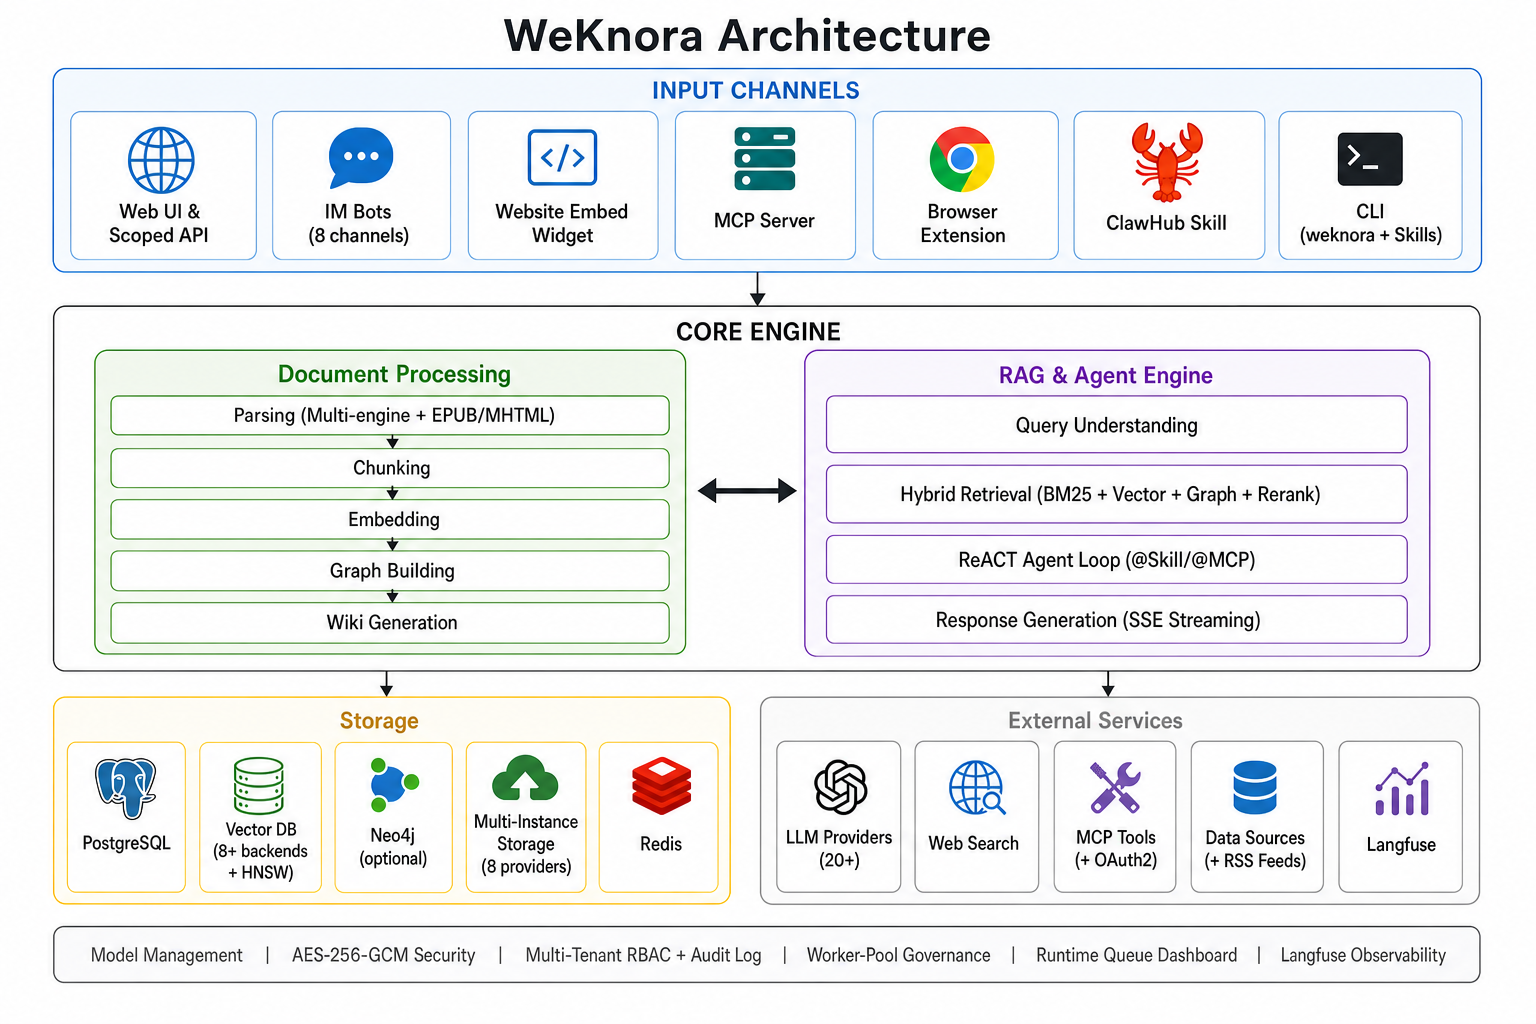
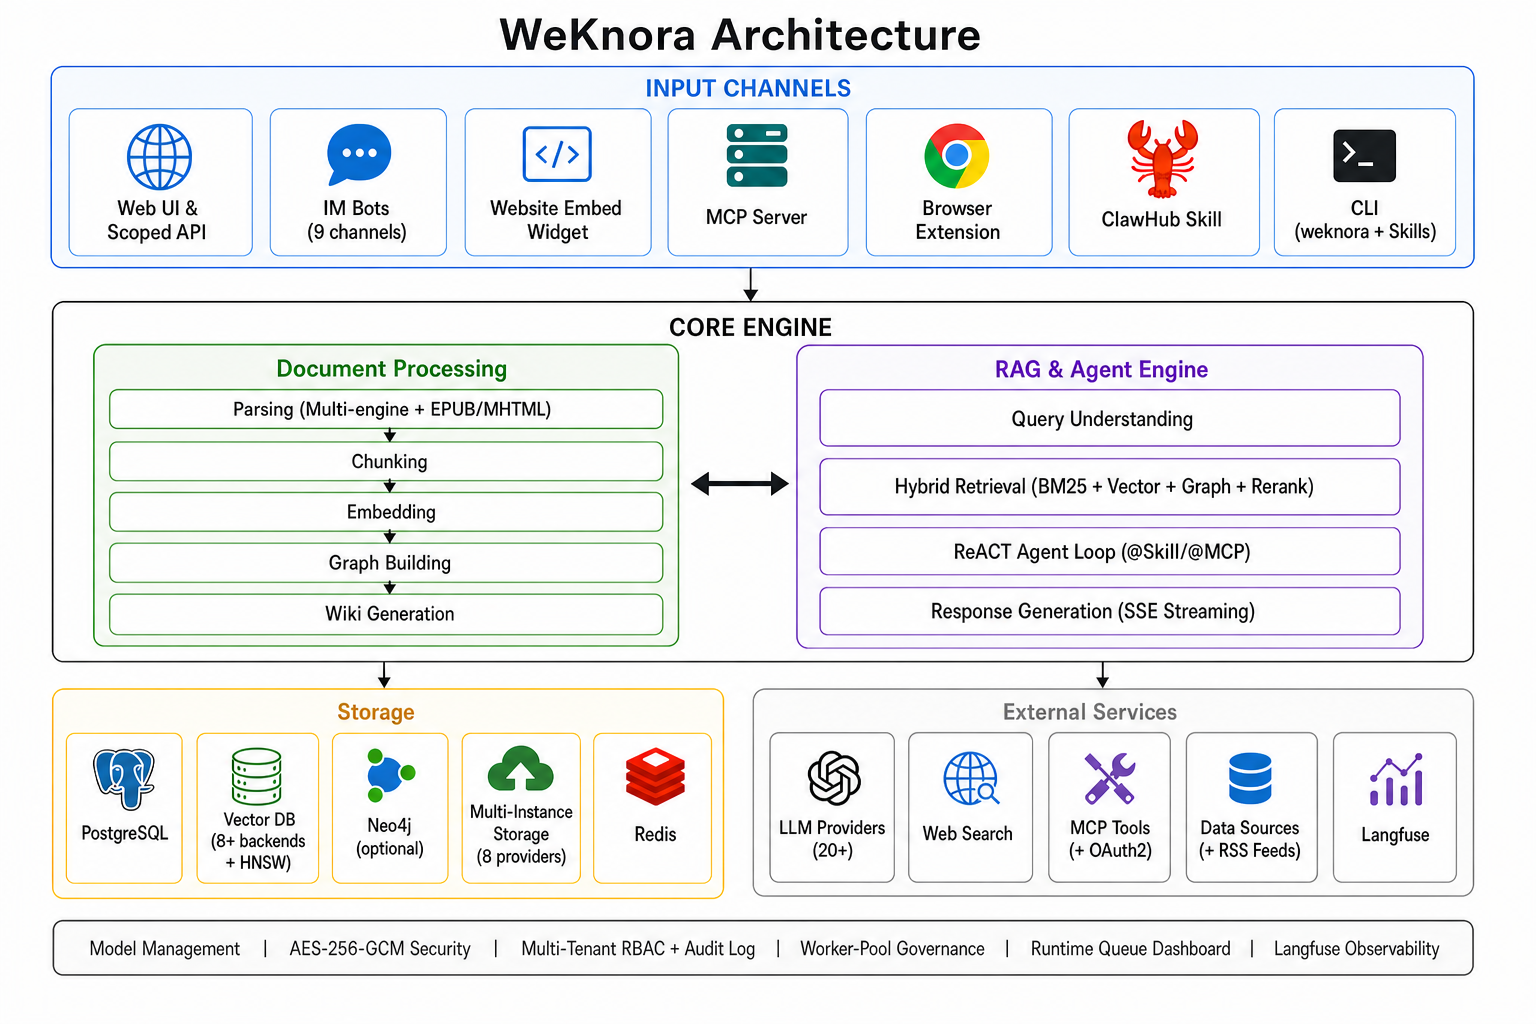
chore(release): prepare v0.7.1
Bump version to 0.7.1 across VERSION, frontend package manifests, and the
Helm chart appVersion. Add the 0.7.1 CHANGELOG entry and refresh all README
locales (badge, latest-updates, IM channel list with Yunzhijia).

Regenerate Swagger/OpenAPI docs, refresh the architecture diagram (IM Bots
9 channels), and extend docs/QA.md with entries for the Yunzhijia IM
integration, Volcengine rerank / Zhipu web search providers, and the Neo4j
conversation-memory removal.

Pull request: chore(release): prepare v0.7.1
## Summary

Release preparation for **v0.7.1**.

- Bump version to `0.7.1` across `VERSION`, `frontend/package.json`, `frontend/package-lock.json`, and Helm `appVersion`.
- Add the `[0.7.1]` `CHANGELOG.md` entry (New Features / Improvements / Bug Fixes / Infrastructure & Build).
- Refresh all README locales (`README.md` / `README_CN.md` / `README_JA.md` / `README_KO.md`): version badge, latest-updates entry, and IM channel list (add Yunzhijia).
- Regenerate Swagger/OpenAPI docs (`docs/docs.go`, `docs/swagger.json`, `docs/swagger.yaml`).
- Refresh `docs/images/architecture.png` (IM Bots → 9 channels).
- Extend `docs/QA.md` with entries for the Yunzhijia IM integration, Volcengine rerank / Zhipu web search providers, and the Neo4j conversation-memory removal.

### Highlights in this release
- Yunzhijia (云之家) IM integration (WebSocket + image messages + Markdown replies)
- Volcengine rerank provider (auto request batching) and Zhipu AI web search provider
- Platform-scoped API keys for control-plane automation + per-KB activity audit trail
- Langfuse OTLP/OTel tracing migration with W3C traceparent propagation
- Chat header actions with one-click Markdown export; wiki tool results in the references drawer
- Prompt-cache observability; session channel governance; resilient Feishu large-wiki sync
- Removal of the legacy Neo4j conversation-memory dependency (GraphRAG still uses Neo4j)

## Test plan
[…]

Changed region(s): [[0.0312, 0.0, 0.9688, 0.9688]]

diff --git a/docs/docs.go b/docs/docs.go
@@ -655,7 +655,7 @@ const docTemplate = `{
                     },
                     {
                         "type": "integer",
-                        "description": "返回数量上限（默认6）",
+                        "description": "返回数量上限（未传时使用智能体配置的开场问题数量，最大30）",
                         "name": "limit",
                         "in": "query"
                     }
@@ -9987,7 +9987,7 @@ const docTemplate = `{
                         "Bearer": []
                     }
                 ],
-                "description": "搜索空间（排除已加入的空间）用于邀请加入组织；按空间去重，附带代表用户",
+                "description": "按空间名搜索可邀请的空间（排除已加入的空间）用于邀请加入组织；按空间去重",
                 "produces": [
                     "application/json"
                 ],
@@ -10005,7 +10005,7 @@ const docTemplate = `{
                     },
                     {
                         "type": "string",
-                        "description": "搜索关键词（空间名、用户名或邮箱）",
+                        "description": "搜索关键词（空间名）",
                         "name": "q",
                         "in": "query",
                         "required": true

diff --git a/CHANGELOG.md b/CHANGELOG.md
@@ -2,6 +2,52 @@
 
 All notable changes to this project will be documented in this file.
 
+## [0.7.1] - 2026-07-24
+
+### New Features
+
+- **NEW**: **Yunzhijia (云之家) IM Integration** — a new instant-messaging platform integration for Yunzhijia, including WebSocket message handling, request signing, image-message ingestion with SSRF-checked downloads, and markdown-formatted replies by default. Add the channel under **Settings → IM Integration** and fill in the credentials.
+- **NEW**: **Volcengine Rerank Provider** — Volcengine is now a first-class rerank provider, with request batching that transparently splits payloads exceeding the API's per-request document limit. vLLM rerankers no longer send `truncate_prompt_tokens` by default for broader compatibility.
+- **NEW**: **Zhipu AI Web Search Provider** — Zhipu AI added as a configurable web search provider alongside the existing options.
+- **NEW**: **Platform-Scoped API Keys** — control-plane automation now has dedicated platform API keys with capability-based access to tenant management, system settings, runtime queues, and audit logs, plus an admin UI for key lifecycle and system-wide audit-log viewing (migration `000071_platform_api_keys`).
+- **NEW**: **Knowledge Base Activity Audit Trail** — a scoped, per-KB activity audit trail records knowledge operations (including FAQ imports) with a dedicated activity settings view and localized audit-log detail drawer (migration `000073_kb_activity_scope`).
+- **NEW**: **FAQ Management Enhancements** — richer FAQ workflows: entry filtering and tagging, export support, and import result tracking with clearer UI feedback and activity logging.
+- **NEW**: **Langfuse OTLP/OTel Tracing** — Langfuse tracing migrated from the legacy ingestion batch API to the OpenTelemetry Go SDK emitting OTLP/HTTP (`/api/public/otel/v1/traces`), the Langfuse v3+ standard. Adds W3C `traceparent` cross-service propagation so upstream trace IDs are inherited, and merges finish metadata with auto-exported root spans.
+- **NEW**: **Chat Header Actions & Markdown Export** — a new chat header with docked state and references-panel support, session header actions, and one-click Markdown export of a conversation. Wiki tool results now surface in the references drawer, and model reasoning renders inline in the agent timeline.
+- **NEW**: **Prompt-Cache Observability** — prompt-cache hit/usage observability with cache-friendly wiki prompts to improve LLM cost and latency.
+- **NEW**: **Session Channel Governance** — IM / embed / API-key channel sessions are gated behind admin scope, with a dedicated admin API session bucket, strict owner scoping for API-key sessions, and a stabilized sidebar source filter. Archived queue tasks can now be bulk-purged.
+
+### Improvements
+
+- **IMPROVED**: **Removed Neo4j conversation memory** — the Neo4j-based episodic memory pipeline, its API fields, settings UI, and embed toggles were dropped, so chat no longer depends on Neo4j graph storage. This simplifies deployment and reduces the required infrastructure footprint.
+- **IMPROVED**: **Shared SSRF-safe HTTP transport** — model clients, embedders, the Doris Stream Load client, and datasource connectors now reuse a single SSRF-safe HTTP transport, consolidating outbound-request protection.
+- **IMPROVED**: **Resilient Feishu large-wiki sync** — Feishu wiki synchronization now retries, resumes streaming, and surfaces failure reasons for large spaces.
+- **IMPROVED**: **Organization & shared-space UI** — polished organization space UI, share-to-space panels, shared-space settings, and join-preview UI, with disambiguated shared-space terminology and tightened invite search.
+- **IMPROVED**: **Compose & config alignment** — docker-compose env vars aligned with code defaults (including a Helm GraphRAG fix, #2164), PDF render parallelism follows the CPU-aware code default, and BSD `netcat` compatibility in the dev script (#2205).
+- **IMPROVED**: **Chat layout** — conversation content area widened from 800px to 960px.
+
+### Bug Fixes
+
+- **FIXED**: Wiki summary slugs are preserved during citation compaction, and slug integrity is hardened across ingest and agent write paths (with sqlite alias support).
+- **FIXED**: IM Q&A could not read its session (#session lookup); DingTalk/IM session reads now resolve correctly.
+- **FIXED**: API keys can no longer be assigned the owner role; scoped keys can access file-serve and ingest-batch routes as intended.
+- **FIXED**: MCP OAuth token refresh and authorization polling are now coordinated to avoid races (migration `000074_mcp_oauth_refresh_lease`).
+- **FIXED**: API-key expiry timestamps normalized to UTC (#2137, migration `000072_auth_timestamp_tz`).
+- **FIXED**: Async knowledge deletion no longer leaves visible/zombie rows (#2192); KB deletion queue cleanup is detached from the request context and dequeues work for deleted knowledge bases.
+- **FIXED**: Source file download restricted to Editor role and above; shared knowledge base document preview path corrected.
+- **FIXED**: Hybrid search query text is validated; top-k retrieval ordering stabilized.
+- **FIXED**: Embedded chunk images copied into the exports namespace; parent/clone chunk image URLs rewritten via a global pass.
+- **FIXED**: Optimistic organization state corrected after review and detail loads; state synchronized after writes and pending join-request counts refreshed after review.
+- **FIXED**: Suggested-questions limit parameter honored; model debug upload limit aligned with the global `MAX_FILE_SIZE`.
+- **FIXED**: Frontend robustness — custom theme tokens kept in production builds, complete TDesign styles loaded, TDesign textarea autosize crash prevented in the org settings popup, and `crypto.randomUUID` fallback for older browsers / HTTP mode.
+- **FIXED**: nginx base image pinned by digest for old-host compatibility; graph and multimodal processing traces corrected; task-inspector lazy-queue "not found" errors handled.
+
+### Infrastructure & Build
+
+- **BUILD**: Migrations `000071_platform_api_keys`, `000072_auth_timestamp_tz`, `000073_kb_activity_scope`, `000074_mcp_oauth_refresh_lease`.
+- **BUILD**: `tenant_api_keys` table structure updated and legacy migration files removed; Langfuse tracing client replaced by an OTel exporter.
+- **BUILD**: Swagger / API docs regenerated for platform API keys, activity audit trail, web-search providers, and the removed memory feature.
+
 ## [0.7.0] - 2026-07-17
 
 ### New Features

diff --git a/docs/QA.md b/docs/QA.md
@@ -362,5 +362,20 @@ SystemAdmin 可在 **系统管理 → 平台 API Key** 创建 `scope_type=platfo
 
 0.7.0 随附 **CLI v0.10**（Agent 优先，破坏性变更）：新增 `model` / `message` / `config` / `skills` 命令组，`doc reparse` / `doc update`，`kb config` / `kb config set`；`session continue` 更名为 `session resume`，新增 `session tool-approval`；提供 agent-first 的 chat 与 `session ask` 输出模式，并强化了 SSE 可靠性与类型化错误。详见 [`cli/CHANGELOG.md`](../cli/CHANGELOG.md)。
 
+## 35. 如何接入云之家（Yunzhijia）？
+
+0.7.1 新增 **云之家 IM 集成**。在 **设置 → IM 集成** 添加云之家渠道并填写应用凭据即可；集成基于 WebSocket 长连接接收消息，支持图片消息入库（带 SSRF 安全下载），默认以 **Markdown** 格式回复。若图片无法下载，请检查出站网络与凭据是否具备下载权限。
+
+## 36. 如何使用火山引擎 Rerank / 智谱 AI 网络搜索？
+
+0.7.1 新增两个供应商：
+
+- **火山引擎 Rerank**：在 **设置 → 模型** 中添加 Rerank 模型并选择火山引擎。当单次请求文档数超过 API 上限时，客户端会自动分批发送并合并结果。vLLM Rerank 现默认不再发送 `truncate_prompt_tokens` 以提升兼容性。
+- **智谱 AI 网络搜索**：在 **设置 → 网络搜索** 中选择智谱 AI 作为搜索供应商并填写凭据即可，用于 Agent 联网检索。
+
+## 37. 升级到 0.7.1 后对话记忆（Memory）设置消失了？还需要 Neo4j 吗？
+
+0.7.1 **移除了基于 Neo4j 的会话记忆（episodic memory）** 功能，相关 API 字段、设置项与嵌入开关一并下线，对话不再依赖 Neo4j 做记忆召回。**注意：知识图谱（GraphRAG / 图检索）仍然使用 Neo4j**，因此若你启用了图谱检索，Neo4j 依旧是必需组件，无需移除部署。若你此前仅为记忆功能部署 Neo4j 且未使用图谱，可按需精简。
+
 ## P.S.
 如果以上方式未解决问题，请在issue中描述您的问题，并提供必要的日志信息辅助我们进行问题排查

diff --git a/README.md b/README.md
@@ -28,7 +28,7 @@
         <img src="https://img.shields.io/badge/License-MIT-ffffff?labelColor=d4eaf7&color=2e6cc4" alt="License">
     </a>
     <a href="./CHANGELOG.md">
-        <img alt="Version" src="https://img.shields.io/badge/version-0.7.0-2e6cc4?labelColor=d4eaf7">
+        <img alt="Version" src="https://img.shields.io/badge/version-0.7.1-2e6cc4?labelColor=d4eaf7">
     </a>
 </p>
 
@@ -57,6 +57,7 @@ The framework supports auto-syncing knowledge from Feishu, Notion, and Yuque (mo
 
 ## ✨ Latest Updates
 
+- **v0.7.1** — New **Yunzhijia (云之家) IM integration** (WebSocket + image messages + markdown replies); **Volcengine rerank** provider (with request batching) and **Zhipu AI web search** provider; **platform-scoped API keys** for control-plane automation (tenant management, system settings, runtime queues, audit logs); **per-KB activity audit trail**; FAQ management enhancements (filtering, tagging, export, import tracking); **Langfuse OTLP/OTel tracing** migration with W3C traceparent propagation; chat header actions with one-click **Markdown export** and wiki tool results in the references drawer; prompt-cache observability; session channel governance (admin-scoped IM/embed/API sessions); resilient Feishu large-wiki sync; and removal of the legacy Neo4j conversation-memory dependency. Plus broad slug-integrity, SSRF-transport, and state-sync hardening. See [`CHANGELOG.md`](./CHANGELOG.md).
 - **v0.7.0** — Fine-grained **scoped API keys & principal model** (capability-level grants + per-KB restriction + API integration playground); **runtime task-queue observability dashboard & worker-pool governance** (per-stage pools + per-model concurrency governors + failed-task inspection/retry); **multi-instance storage backends** (multiple storage instances per workspace, per-KB binding, default instance); **session-scoped temporary attachments** (async image/doc parsing + combined limits); question & follow-up suggestions; stable resource registry with LLM-context alias compaction; `@Skill / @MCP` mentions with scoped agent runtime; mid-conversation MCP OAuth; QQBot & Lark (Feishu International) IM integration; Redis TLS; Requesty model provider + Keenable web search; tenantless provisioning & gated self-service workspaces; admin password reset; knowledge base duplicate flow; `weknora` CLI v0.10. Plus broad security hardening (SSRF, secret redaction, SQL validation, IDOR). See [`CHANGELOG.md`](./CHANGELOG.md).
 - **v0.6.3** — Website embed widget & Integrations Center (secure-mode token exchange + rate limits); chat experience overhaul (citation popovers, RAG pipeline progress, streaming markdown); document multi-tag & batch reparse; Wiki folders & hierarchy navigation; RSS data source; MCP OAuth2; EPUB / MHTML parsing; agent model-readiness checks; model test debugger; session source filter; workspace deletion UI. See [`CHANGELOG.md`](./CHANGELOG.md).
 - **v0.6.2** — Per-upload process configuration with upload-confirm dialog; document reparse with `process_config`; `weknora` CLI v0.9 (bundled Agent Skills, `session stop`, auth/profile harmonization); KB marquee multi-select; HNSW index for 1024-dim pgvector embeddings; chat resources store refactor; Langfuse-only tracing (Jaeger removed). See [`CHANGELOG.md`](./CHANGELOG.md).
@@ -137,7 +138,7 @@ Fully modular pipeline from document parsing, vectorization, and retrieval to LL
 | Embeddings | Ollama / BGE / GTE / Zhipu / OpenAI-compatible APIs |
 | Vector DBs | PostgreSQL (pgvector) / Elasticsearch / OpenSearch / Milvus / Weaviate / Qdrant / Apache Doris / Tencent VectorDB |
 | Object Storage | Local / MinIO / AWS S3 / Volcengine TOS / Alibaba Cloud OSS / Kingsoft Cloud KS3 / Huawei Cloud OBS; **multiple storage instances per workspace** with per-KB binding and a default instance |
-| IM Channels | WeCom / Feishu / Lark (Feishu International) / QQBot / Slack / Telegram / DingTalk / Mattermost / WeChat |
+| IM Channels | WeCom / Feishu / Lark (Feishu International) / QQBot / Slack / Telegram / DingTalk / Mattermost / WeChat / Yunzhijia |
 | Website Embed | Publish agents via embed widget with domain allowlists, rate limits, and secure-mode token exchange |
 | Web Search | DuckDuckGo / Bing / Google / Tavily / Baidu / Ollama / SearXNG / Keenable / Zhipu AI |
 | API Integration | Scoped API keys (capability-level grants + per-KB restriction + throttled last-used tracking) with an API integration playground; MCP OAuth and embed sessions isolated per principal |

diff --git a/README_CN.md b/README_CN.md
@@ -28,7 +28,7 @@
         <img src="https://img.shields.io/badge/License-MIT-ffffff?labelColor=d4eaf7&color=2e6cc4" alt="License">
     </a>
     <a href="./CHANGELOG.md">
-        <img alt="版本" src="https://img.shields.io/badge/version-0.7.0-2e6cc4?labelColor=d4eaf7">
+        <img alt="版本" src="https://img.shields.io/badge/version-0.7.1-2e6cc4?labelColor=d4eaf7">
     </a>
 </p>
 
@@ -56,6 +56,7 @@
 
 ## ✨ 最新更新
 
+- **v0.7.1** —— 新增**云之家 IM 集成**（WebSocket + 图片消息 + Markdown 回复）；**火山引擎 Rerank** 供应商（自动分批请求）与**智谱 AI 网络搜索**供应商；**平台级 API Key**，用于控制面自动化（租户管理、系统设置、运行时队列、审计日志）；**按知识库的活动审计追踪**；FAQ 管理增强（筛选、打标签、导出、导入结果追踪）；**Langfuse OTLP/OTel 追踪**迁移，支持 W3C traceparent 跨服务传播；对话头部操作栏，支持一键 **Markdown 导出**，并在引用抽屉中展示 Wiki 工具结果；Prompt 缓存可观测性；会话渠道治理（IM/嵌入/API 会话按管理员范围隔离）；飞书大型 Wiki 同步韧性增强；移除旧版 Neo4j 会话记忆依赖。另有大范围的 slug 完整性、SSRF 传输与状态同步加固。详见 [`CHANGELOG.md`](./CHANGELOG.md)。
 - **v0.7.0** —— 细粒度**权限范围 API Key 与 Principal 模型**（能力级授权 + 按 KB 限制 + API 集成调试台）；**运行时任务队列可观测面板与 Worker 池治理**（分阶段独立池 + 按模型并发治理 + 失败任务排查/重试）；**多实例存储后端**（每空间多存储实例、按 KB 绑定、默认实例）；**会话级临时附件**（图片/文档异步解析 + 合并限额）；推荐问题与追问；稳定资源注册表与 LLM 上下文别名压缩；`@Skill / @MCP` 提及范围化 Agent 运行时；会话内 MCP OAuth 授权；QQBot 与 Lark（飞书国际版）IM 集成；Redis TLS；Requesty 模型厂商 + Keenable 网络搜索；无租户预置与受控自助创建工作区；管理员密码重置；知识库复制流程；`weknora` CLI v0.10。同时完成大范围安全加固（SSRF、密钥脱敏、SQL 校验、越权）。详见 [`CHANGELOG.md`](./CHANGELOG.md)。
 - **v0.6.3** —— 网站嵌入 Widget 与发布集成中心（安全模式 Token 交换 + 限流）；对话体验全面革新（引用浮层、RAG 流水线进度、流式 Markdown）；文档多标签与批量重新解析；Wiki 文件夹与层级导航；RSS 数据源；MCP OAuth2；EPUB / MHTML 解析；Agent 模型就绪校验；模型调试器；会话来源筛选；工作区删除 UI。详见 [`CHANGELOG.md`](./CHANGELOG.md)。
 - **v0.6.2** —— 按批次解析配置（`process_config`）+ 上传确认对话框；文档重新解析（reparse）支持覆盖配置；`weknora` CLI v0.9（内置 Agent Skills、`session stop`、auth/profile 统一）；知识库框选多选；pgvector 1024 维 HNSW 索引；对话资源 Store 重构；仅保留 Langfuse 追踪（移除 Jaeger）。详见 [`CHANGELOG.md`](./CHANGELOG.md)。
@@ -136,7 +137,7 @@
 | 向量数据库 | PostgreSQL (pgvector) / Elasticsearch / OpenSearch / Milvus / Weaviate / Qdrant / Apache Doris / 腾讯云 VectorDB |
 | Embedding | Ollama / BGE / GTE / 智谱 / OpenAI 兼容接口 |
 | 对象存储 | 本地 / 腾讯云COS / 火山引擎 TOS / MinIO / AWS S3 / 阿里云 OSS / 金山云 KS3 / 华为云 OBS；支持**每空间多实例存储后端**，不同知识库可绑定不同实例并设置默认实例 |
-| IM 集成 | 企业微信 / 飞书 / Lark（飞书国际版）/ QQBot / Slack / Telegram / 钉钉 / Mattermost / 微信 |
+| IM 集成 | 企业微信 / 飞书 / Lark（飞书国际版）/ QQBot / Slack / Telegram / 钉钉 / Mattermost / 微信 / 云之家 |
 | 网站嵌入 | 通过嵌入 Widget 发布智能体，支持域名白名单、限流与安全模式 Token 交换 |
 | 网络搜索 | DuckDuckGo / Bing / Google / Tavily / Baidu / Ollama / SearXNG / Keenable / 智谱 AI |
 | API 集成 | 权限范围 API Key（能力级授权 + 按 KB 限制 + 节流的 last_used 追踪）与 API 集成调试台；MCP OAuth 与嵌入会话按 Principal 隔离 |

diff --git a/README_JA.md b/README_JA.md
@@ -28,7 +28,7 @@
         <img src="https://img.shields.io/badge/License-MIT-ffffff?labelColor=d4eaf7&color=2e6cc4" alt="License">
     </a>
     <a href="./CHANGELOG.md">
-        <img alt="バージョン" src="https://img.shields.io/badge/version-0.7.0-2e6cc4?labelColor=d4eaf7">
+        <img alt="バージョン" src="https://img.shields.io/badge/version-0.7.1-2e6cc4?labelColor=d4eaf7">
     </a>
 </p>
 
@@ -56,6 +56,7 @@ Feishu、Notion、Yuqueなどの外部プラットフォームからのナレッ
 
 ## ✨ 最新アップデート
 
+- **v0.7.1** — 新しい**Yunzhijia（云之家）IM 連携**（WebSocket + 画像メッセージ + Markdown 返信）；**Volcengine Rerank** プロバイダー（リクエストの自動分割）と **Zhipu AI Web 検索**プロバイダー；コントロールプレーン自動化向けの**プラットフォームスコープ API キー**（テナント管理、システム設定、ランタイムキュー、監査ログ）；**KB 単位のアクティビティ監査証跡**；FAQ 管理の強化（フィルタリング、タグ付け、エクスポート、インポート結果追跡）；**Langfuse OTLP/OTel トレーシング**への移行と W3C traceparent 伝播；チャットヘッダーアクションによるワンクリック **Markdown エクスポート**、参照ドロワーへの Wiki ツール結果表示；プロンプトキャッシュ可観測性；セッションチャネルガバナンス（IM/埋め込み/API セッションを管理者スコープで分離）；Feishu 大規模 Wiki 同期の堅牢化；レガシー Neo4j 会話メモリ依存の削除。加えて広範な slug 整合性・SSRF トランスポート・状態同期の強化。詳細は [`CHANGELOG.md`](./CHANGELOG.md)。
 - **v0.7.0** — きめ細かい**スコープ付き API キーと Principal モデル**（能力単位の付与 + KB 単位の制限 + API 連携プレイグラウンド）；**ランタイムタスクキュー可観測ダッシュボードと Worker プール統治**（ステージ別プール + モデル別並行度ガバナー + 失敗タスクの調査/再試行）；**マルチインスタンスストレージバックエンド**（ワークスペースごとに複数のストレージインスタンス、KB 単位のバインド、デフォルトインスタンス）；**セッションスコープの一時添付**（画像/ドキュメントの非同期解析 + 合算上限）；推奨質問とフォローアップ；安定リソースレジストリと LLM コンテキストのエイリアス圧縮；`@Skill / @MCP` メンションによるスコープ化 Agent ランタイム；会話中の MCP OAuth；QQBot と Lark（Feishu 国際版）IM 連携；Redis TLS；Requesty モデルプロバイダー + Keenable Web 検索；テナントレスプロビジョニングと制御されたセルフサービスワークスペース；管理者パスワードリセット；ナレッジベース複製フロー；`weknora` CLI v0.10。加えて大規模なセキュリティ強化（SSRF、シークレットのマスキング、SQL 検証、IDOR）。詳細は [`CHANGELOG.md`](./CHANGELOG.md)。
 - **v0.6.3** — ウェブサイト埋め込み Widget と統合センター（セキュアモード Token 交換 + レート制限）；チャット体験の全面刷新（引用ポップオーバー、RAG パイプライン進捗、ストリーミング Markdown）；ドキュメント複数タグと一括 reparse；Wiki フォルダーと階層ナビゲーション；RSS データソース；MCP OAuth2；EPUB / MHTML 解析；Agent モデル準備状態チェック；モデルデバッガー；セッションソースフィルター；ワークスペース削除 UI。詳細は [`CHANGELOG.md`](./CHANGELOG.md)。
 - **v0.6.2** — アップロード単位の解析設定（`process_config`）+ アップロード確認ダイアログ；reparse 時の設定上書き；`weknora` CLI v0.9（同梱 Agent Skills、`session stop`、auth/profile 統合）；KB マーキー複数選択；pgvector 1024 次元 HNSW インデックス；チャットリソース Store 刷新；Langfuse のみのトレーシング（Jaeger 削除）。詳細は [`CHANGELOG.md`](./CHANGELOG.md)。
@@ -137,7 +138,7 @@ Feishu、Notion、Yuqueなどの外部プラットフォームからのナレッ
 | Embedding | Ollama / BGE / GTE / OpenAI 互換 API |
 | ベクトル DB | PostgreSQL (pgvector) / Elasticsearch / OpenSearch / Milvus / Weaviate / Qdrant / Apache Doris / Tencent VectorDB |
 | オブジェクトストレージ | ローカル / MinIO / AWS S3 / 火山引擎 TOS / Alibaba Cloud OSS / 金山雲 KS3 / 華為雲 OBS；**ワークスペースごとに複数のストレージインスタンス**、KB 単位のバインドとデフォルトインスタンス |
-| IM 統合 | WeChat Work / Feishu / Lark（Feishu 国際版）/ QQBot / Slack / Telegram / DingTalk / Mattermost / WeChat |
+| IM 統合 | WeChat Work / Feishu / Lark（Feishu 国際版）/ QQBot / Slack / Telegram / DingTalk / Mattermost / WeChat / Yunzhijia |
 | ウェブ埋め込み | 埋め込み Widget でエージェントを公開、ドメイン許可リスト・レート制限・セキュアモード Token 交換 |
 | Web 検索 | DuckDuckGo / Bing / Google / Tavily / Baidu / Ollama / SearXNG / Keenable / Zhipu AI |
 | API 連携 | スコープ付き API キー（能力単位の付与 + KB 単位の制限 + 節流付き last_used 追跡）と API 連携プレイグラウンド；MCP OAuth と埋め込みセッションを Principal 単位で分離 |